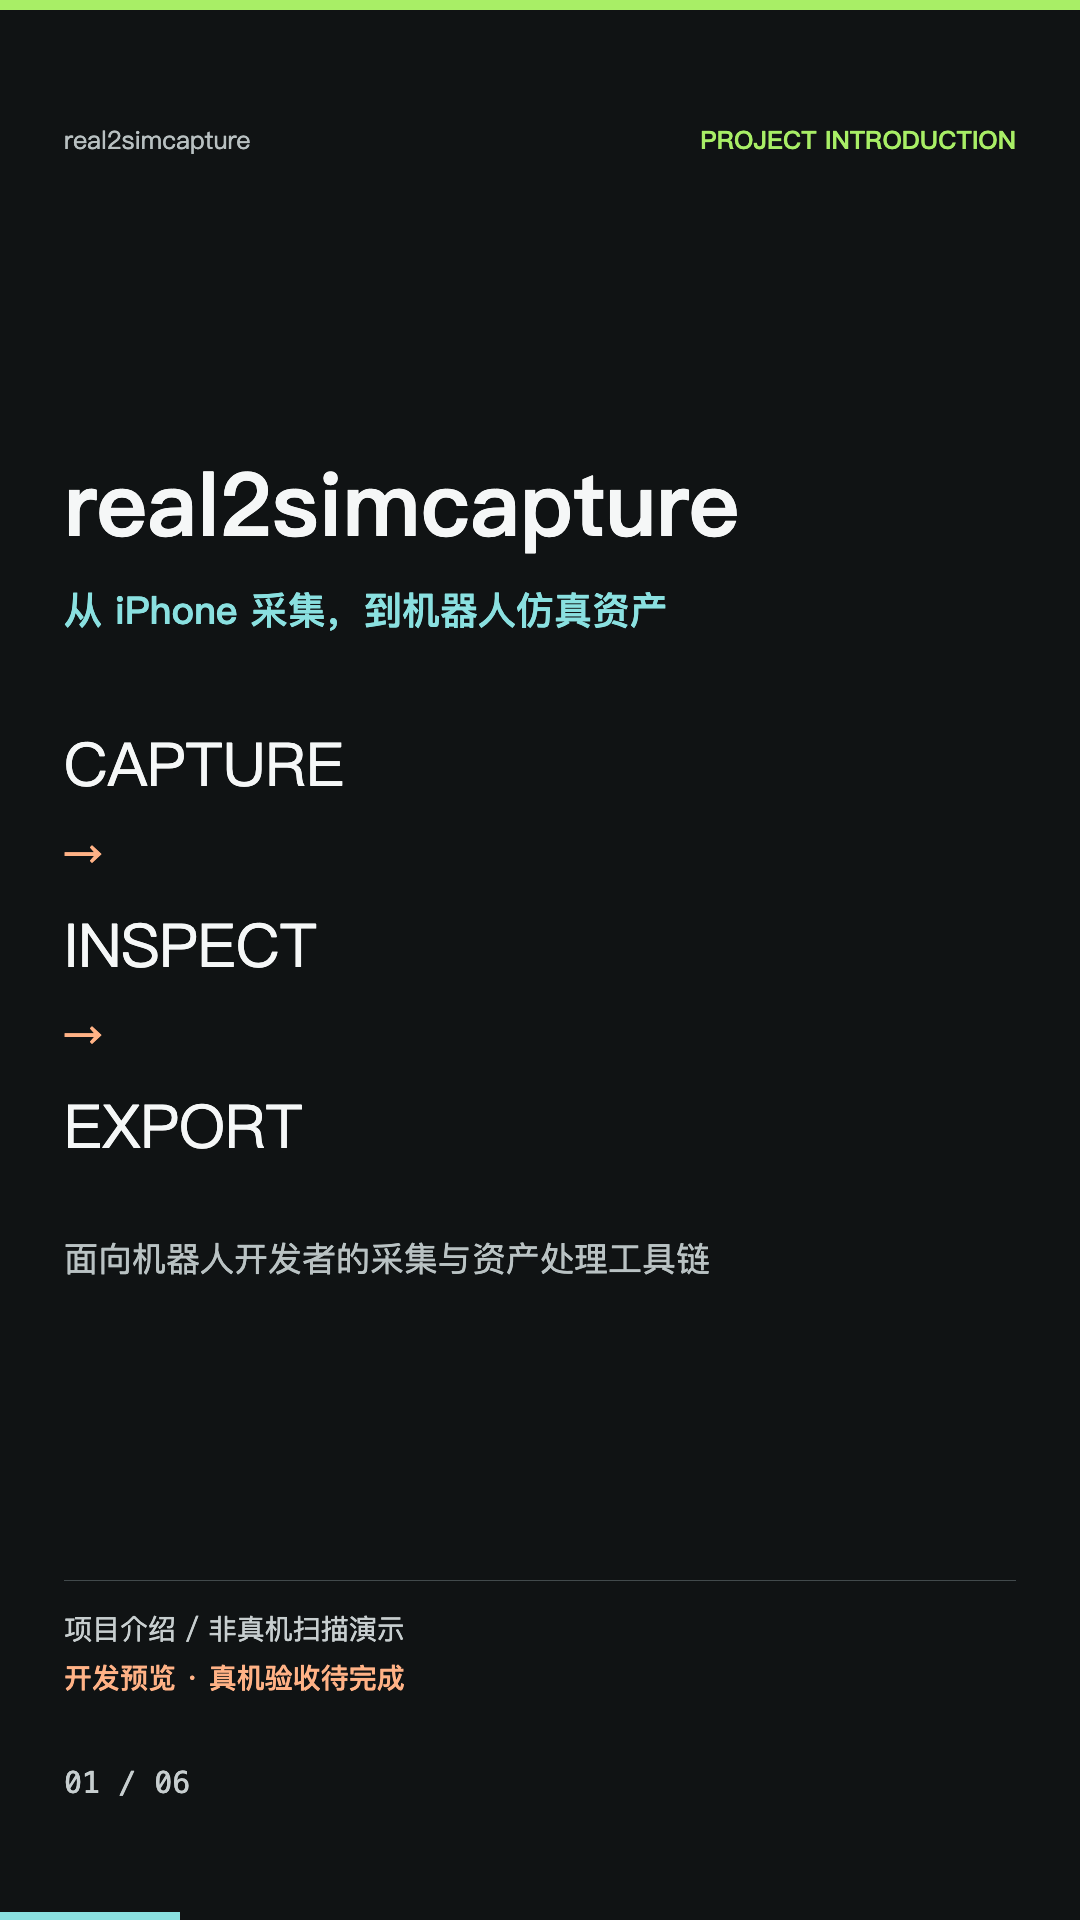
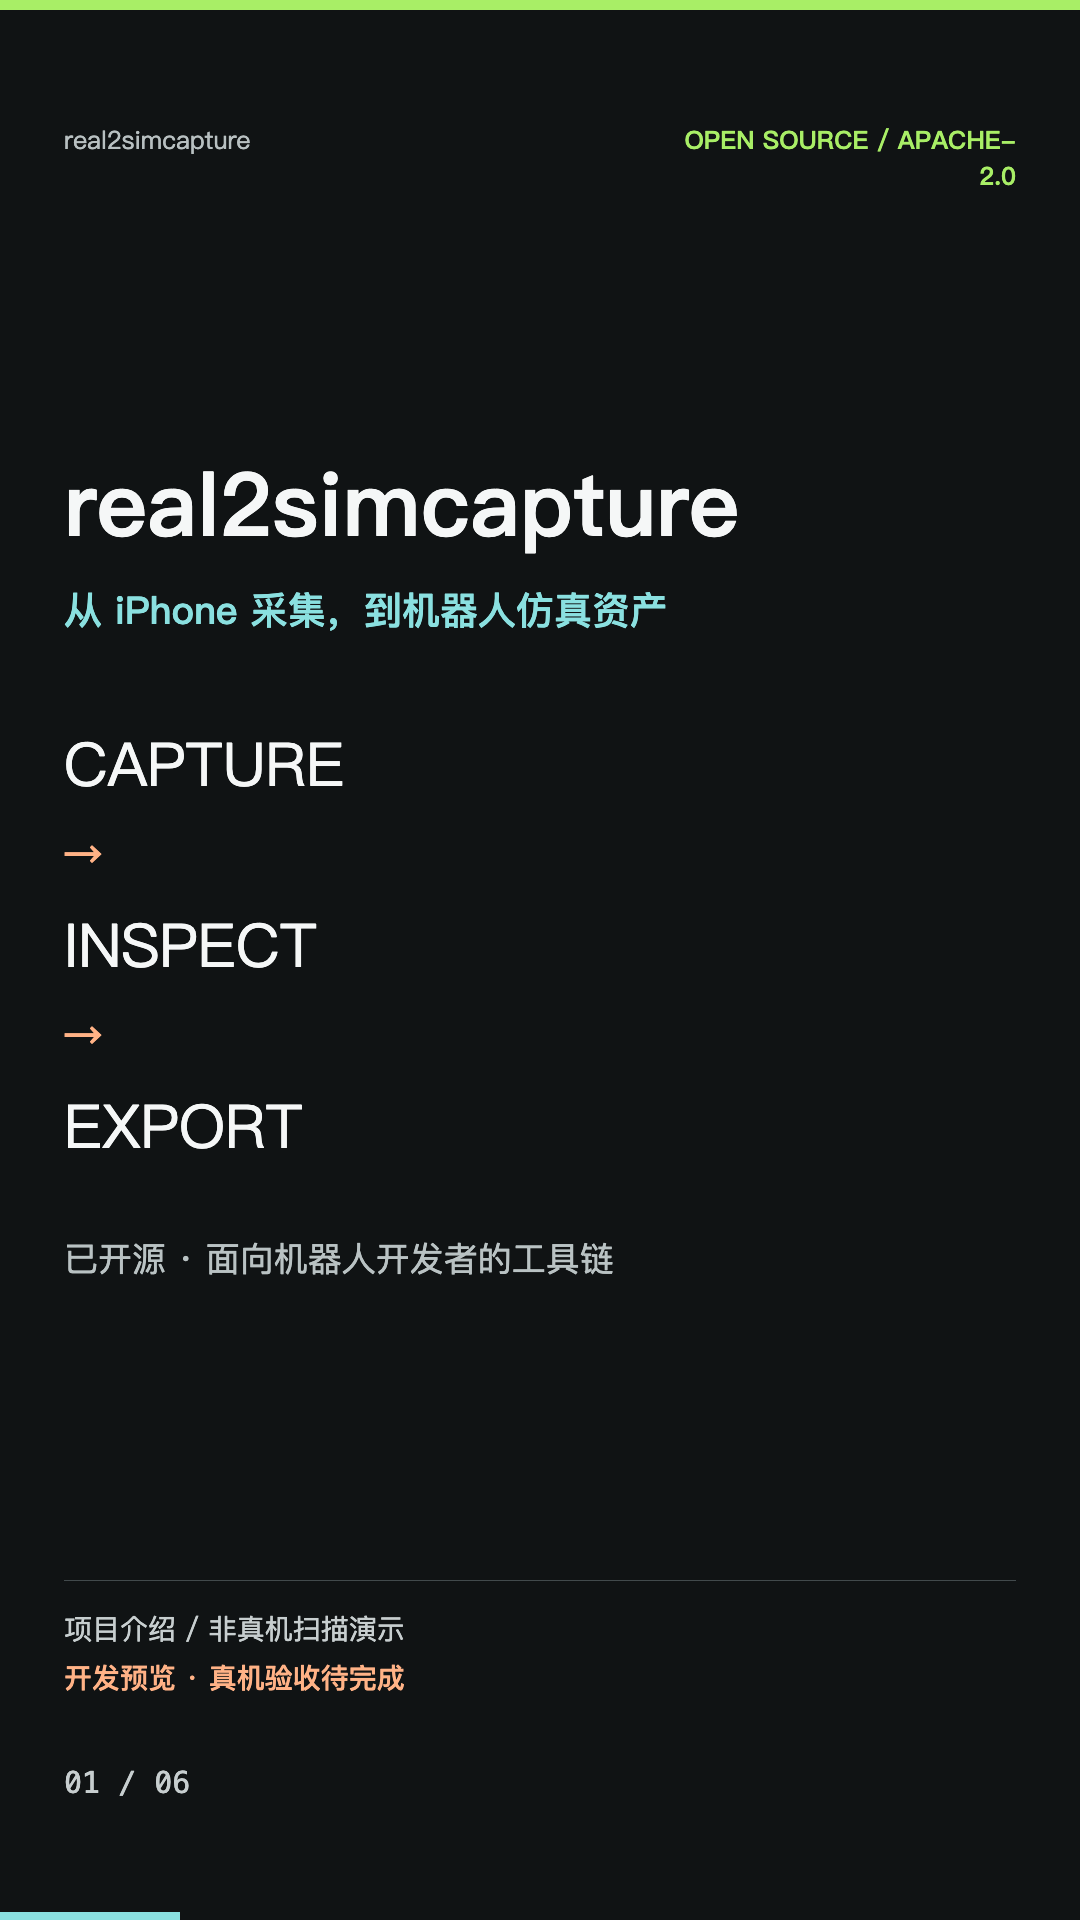
docs: publish open-source introduction videos

Changed region(s): [[0.0611, 0.625, 0.5806, 0.6875], [0.6417, 0.0625, 0.9472, 0.0938], [0.6111, 0.625, 0.6417, 0.6875]]

diff --git a/docs/launch/PUBLISHING.zh-CN.md b/docs/launch/PUBLISHING.zh-CN.md
@@ -1,91 +1,91 @@
-# 开发预览介绍片交付
+# 开源开发预览介绍片
 
-日期：2026-10-26。**视频已导出，尚未在任何视频平台上传或发布。** 源码按 Apache-2.0 开源，见 [GitHub](https://github.com/eust-w/real2simcapture) 与根目录 LICENSE。下面保留的是开源前制作的介绍片及文案，其“开源筹备”“许可证待确认”台词已过时，重新发布视频前需要更新，不应原样作为最新状态宣传。
+更新日期：2026-10-27。源码已按 [Apache-2.0](../../LICENSE) 公开，版本为 [v0.1.0-alpha.1](https://github.com/eust-w/real2simcapture/releases/tag/v0.1.0-alpha.1)。介绍片已更新开源状态和下载地址；不再使用旧版“开源筹备”“许可证待确认”的旁白。
 
-本片介绍代码和项目工作流，不是真机扫描演示。没有使用回归测试网格、生成场景或第三方扫描素材冒充采集结果。未来的真机演示分镜另见 [VIDEO.zh-CN.md](VIDEO.zh-CN.md)。
+**这是代码与工作流介绍，不是真机扫描演示。** 画面来自实际源码和真实运行的空工作台。没有用测试网格、生成场景或第三方扫描素材冒充采集结果。真机签名安装、连续扫描和目标引擎闭环仍待验收，没有可直接安装的签名 App。未来真机实录计划见 [VIDEO.zh-CN.md](VIDEO.zh-CN.md)。
 
-## 文件
+## 媒体文件
 
-本地输出位于仓库的 `.build/promo/`，不随 Git 分发：
+本轮输出保存在 `.build/promo-open-source-20261027/`，旧版 `.build/promo/` 保留但不再用于发布。
 
 | 文件 | 内容 |
 | --- | --- |
-| `real2simcapture-intro-landscape.mp4` | 1920x1080、30 fps、H.264/AAC，约 62.29 秒 |
-| `real2simcapture-intro-portrait.mp4` | 1080x1920、30 fps、H.264/AAC，约 62.29 秒 |
-| `intro.zh.srt` / `intro.en.srt` | 中文旁白字幕、英文翻译；独立字幕文件，未烧录到画面 |
-| `landscape-0.png` / `portrait-0.png` | 横竖封面 |
-| `manifest.json` | 生成时间、源码版本、素材来源、各镜头时长和媒体探测结果 |
+| `real2simcapture-intro-landscape.mp4` | 1920x1080、30 fps、H.264/AAC，约 64.82 秒；B站、YouTube |
+| `real2simcapture-intro-portrait.mp4` | 1080x1920、30 fps、H.264/AAC，约 64.82 秒；抖音、小红书 |
+| `intro.zh.srt` / `intro.en.srt` | 中文旁白与英文翻译，独立字幕，未烧录 |
+| `landscape-0.png` / `portrait-0.png` | 横竖版封面 |
+| `manifest.json` | 源码版本、生成脚本 SHA-256、旁白、镜头时长和媒体探测结果 |
 
-封面和字幕的可版本管理副本在 [assets](assets/)。没有制作虚假的“扫描结果”短循环。
+封面与字幕副本在 [assets](assets/)。配音是 macOS `say` / Tingting 合成中文旁白，不是用户的克隆声音；无背景音乐、无第三方录音。发布文案必须披露合成配音，平台有相关声明选项时同步设置。
 
-配音为 macOS `say` / Tingting 合成中文旁白，不是用户的克隆声音；无背景音乐、无第三方录音。发布时按平台要求披露合成配音。音轨峰值约 -2.7 dB、平均约 -18.6 dB；完成了音轨存在性、解码和非静音检查，没有声称进行人工逐句听审。
+公开下载：[横版视频](https://github.com/eust-w/real2simcapture/releases/download/v0.1.0-alpha.1/real2simcapture-intro-landscape.mp4) · [竖版视频](https://github.com/eust-w/real2simcapture/releases/download/v0.1.0-alpha.1/real2simcapture-intro-portrait.mp4) · [中文字幕](https://github.com/eust-w/real2simcapture/releases/download/v0.1.0-alpha.1/intro.zh.srt) · [英文字幕](https://github.com/eust-w/real2simcapture/releases/download/v0.1.0-alpha.1/intro.en.srt)。两个视频已匿名下载，并与原文件核对 SHA-256。
+
+已完成两个视频的完整解码、音轨存在性与非静音检查、横竖画面溢出检查及片头/片尾抽查。音轨峰值约 -2.7 dB、平均约 -18.5 dB。未声称人工逐句听审。
 
 ## 素材来源
 
-1. 原生采集片段：`ios/Real2SimCapture/Sources/ARSceneCaptureScreen.swift`，渲染时直接读取文件，不另编演示代码。
-2. 导出片段：`backend/app/exporters.py` 的实际 MJCF、URDF、USD 写出语句。
-3. Web：本项目实际运行的未采集工作台截图，只展示界面，不伪造采集结果；发布画面裁切不包含本地依赖路径。
-4. 标题、流程排版和旁白为本项目新制内容。源码公开权属仍需确认。
-
-两个方向均完成页面尺寸溢出检查，并抽查源码帧、界面帧、结尾和编码后视频帧。视频不包含账号密码、验证码、签名证书、真实私人房间或云主机连接信息。
+1. `ios/Real2SimCapture/Sources/ARSceneCaptureScreen.swift`：渲染时读取实际源码，展示原生采集和周期网格上传。
+2. `backend/app/exporters.py`：实际 MJCF、URDF、USD 写出代码；并非目标引擎运行画面。
+3. `.build/browser/workbench-empty.png`：2026-10-26 实际工作台截图，未开始采集，不包含私人场景。
+4. 本项目原创排版和旁白。公开视频不含账号密码、验证码、签名证书或云主机连接信息。
 
 ## 重新生成
 
-需要 macOS 系统语音、FFmpeg、项目 Node 依赖及 Chromium/Chrome。先按[安装说明](../SETUP.md)运行浏览器检查，得到实际工作台截图，再从仓库根目录执行：
+需要 macOS 系统语音、FFmpeg、项目 Node 依赖和 Chrome/Chromium，以及实际空工作台截图。不要将浏览器测试生成的网格截图用作扫描成果。
 
 ```sh
-export CHROMIUM_PATH="$(node -p 'require("./frontend/node_modules/playwright").chromium.executablePath()')"
-node scripts/render_preview_video.mjs
+PREVIEW_OUTPUT_DIR=.build/promo-open-source-20261027 node scripts/render_preview_video.mjs
 ```
 
-脚本会生成音轨、画面、两个 MP4、中英文 SRT 和 manifest。修改台词后必须重新检查时长、布局、内容准确性及是否仍符合“非真机演示”标注。
+如不使用已安装的 Chrome，可设置 `CHROMIUM_PATH`。每次修改旁白后都应重新检查时长、布局、内容准确性和“非真机演示”标注。
 
-## 各平台文案
+## 平台文案
 
-以下专门对应当前开发预览片，不可替换为“已完成真实扫描”或“已经开源”的说法。
+机器可读副本见 [platform-copy.json](platform-copy.json)。所有平台使用同一事实边界，不承诺扫描精度、延迟或生产可用性。
 
 ### B站
 
-标题：iPhone 到机器人仿真，工具链怎么搭？real2simcapture 开发预览
+标题：iPhone 到机器人仿真：real2simcapture 开源了，哪些环节还没跑通？
 
-简介：扫描外观只是开始，机器人仿真还需要尺度、碰撞几何和物理参数来源。这期用实际源码和运行中的工作台介绍 real2simcapture：原生采集、Live 网格传输、Web 检查与资产导出。当前仍是开发预览，真机签名安装、连续采集及引擎闭环待验收。项目开源筹备中，公开授权和许可证确认后再发布。这不是扫描效果演示；中文旁白由语音合成生成。
+简介：扫描外观只是开始，机器人仿真还需要尺度、碰撞几何和物理参数来源。real2simcapture 已按 Apache-2.0 开源：这期用实际源码与空工作台介绍原生采集、Live 网格传输、Web 检查和 MJCF / URDF / USD 导出。当前为开发预览，真机签名安装、连续扫描和目标引擎闭环待验收，不提供签名 App。本片不是扫描效果演示，中文旁白为合成语音。源码：https://github.com/eust-w/real2simcapture
 
-标签：机器人、计算机视觉、iPhone、ARKit、三维重建、开发记录
+标签：开源、机器人、iPhone、ARKit、三维重建、开发记录
 
 ### YouTube
 
-Title: Building an iPhone-to-Simulation Pipeline | real2simcapture Developer Preview
+Title: real2simcapture Is Open Source | iPhone-to-Simulation Developer Preview
 
-Description: A source-based introduction to real2simcapture: native capture, periodic ARKit mesh uploads, a Web workbench, and simulation asset export. This is not a physical-device scanning demo. Device signing, continuous capture and engine acceptance remain pending. Public source release awaits ownership and license confirmation. Includes synthesized Mandarin narration and an English subtitle file. Estimated physical parameters are not measurements.
+Description: An open-source capture and simulation-asset pipeline for robotics developers. This source-based introduction covers native iPhone capture, periodic ARKit mesh uploads, a Web workbench, and MJCF / URDF / USD export. Apache-2.0 source: https://github.com/eust-w/real2simcapture
 
-Tags: robotics, ARKit, iPhone, 3D reconstruction, simulation assets, developer preview
+This is a developer preview, not a physical-device scanning demo. Device signing, continuous scanning and target-engine acceptance remain pending. No signed installable iPhone app is distributed. Estimated physical parameters are not measurements. Actual code and an empty workbench are shown; no fabricated scan results. Includes synthesized Mandarin narration, with Chinese and English subtitle files.
 
-使用横版，并上传 `intro.en.srt` 与 `intro.zh.srt`。不要填尚不可公开访问的仓库地址作为可用下载链接。
+Tags: robotics, ARKit, iPhone, open source, 3D reconstruction, developer preview
+
+使用横版，语言设为中文，并上传中英文字幕。不将“合成配音”描述为用户本人录音。
 
 ### 抖音
 
-封面：iPhone 采集，怎样接到机器人仿真？
+标题：iPhone到仿真，工具链开源了
 
-文案：模型外观之外，还要处理尺度、碰撞和参数来源。real2simcapture 开发记录：原生采集、Live 网格与导出代码。真机闭环待验收，开源筹备中。本条为代码介绍，非扫描效果演示；使用合成配音。#机器人 #三维重建 #开发日常
+文案：扫描出模型，还不等于机器人能用。real2simcapture 已开源：原生采集、Live 网格、Web 检查与资产导出。当前为开发预览，真机连续扫描和引擎闭环待验收，没有签名安装包。本片是实际代码与空工作台介绍，非扫描效果演示；合成配音。源码：GitHub 搜索 eust-w/real2simcapture。#开源 #机器人 #三维重建
 
 ### 小红书
 
-标题：做机器人仿真资产，扫描之后还缺什么？
+标题：iPhone到仿真，工具链开源了
 
-正文：最近在整理 real2simcapture。目标是连接 iPhone 原生采集、工作台检查和仿真资产导出。视频里展示的是实际代码与空工作台，没有用测试几何冒充真实扫描。当前已补上 Live 网格传输；签名安装、长时间采集、真实引擎闭环还需要设备验收。准备开源，但公开授权和许可证尚未确认。使用合成配音。#机器人开发 #iPhone #三维重建 #项目记录
-
-### GitHub README
-
-首屏封面已加入中英文 README。公开后才追加真正可访问的视频或 release 链接，当前不编造发布地址。
+正文：把手机采集接到机器人仿真，中间不只是一个模型文件。real2simcapture 已按 Apache-2.0 开源，整理了原生采集、Live 网格传输、工作台检查和 MJCF / URDF / USD 导出代码。视频展示实际源码与空工作台，不拿测试网格冒充扫描成果。当前为开发预览：签名安装、连续扫描和目标引擎闭环待验收，没有签名 App。源码在 GitHub：eust-w/real2simcapture。本片使用合成配音。#开源项目 #机器人开发 #iPhone #三维重建
 
 ## 发布台账
 
-| 平台 | 目标账号 | 状态 | 公开链接 |
-| --- | --- | --- | --- |
-| GitHub | 已有私有仓库 eust-w/real2simcapture | 私有预览分支及草稿 PR；未公开 | 无公开 release |
-| B站 | 未确认 | 文件与文案已备；未上传 | 无 |
-| YouTube | 未确认 | 文件与中英文字幕已备；未上传 | 无 |
-| 抖音 | 未确认 | 竖版与文案已备；未上传 | 无 |
-| 小红书 | 未确认 | 竖版与文案已备；未上传 | 无 |
+| 平台 | 当前状态 | 链接 |
+| --- | --- | --- |
+| GitHub 源码 | 已公开，Apache-2.0 | [仓库](https://github.com/eust-w/real2simcapture) |
+| GitHub 视频 | 两个 MP4、双语字幕、两张封面已公开；MP4 匿名下载校验通过 | [Release](https://github.com/eust-w/real2simcapture/releases/tag/v0.1.0-alpha.1) |
+| B站 | 待连接已登录浏览器；未上传 | 无 |
+| YouTube | 待连接已登录浏览器；未上传 | 无 |
+| 抖音 | 待连接已登录浏览器；未上传 | 无 |
+| 小红书 | 待连接已登录浏览器；未上传 | 无 |
 
-发布前需要：权利人确认源码及画面可公开、选择许可证、确认每个平台目标账号并完成登录。任何平台的“上传中”“待审核”“草稿”都不能记录为公开发布成功。本轮没有创建自动发布任务。
+上传完成、审核中、草稿均不等于公开发布。每个平台分别核对账号、内容与公开链接，保留本地证据；不创建自动发布任务。
+
+本轮浏览器自动化连接未完成，未读取四个平台的当前账号状态，也没有提交投稿。过去其他项目的登录、审核或账号限制不作为本次平台状态的证据。

diff --git a/docs/launch/READINESS.zh-CN.md b/docs/launch/READINESS.zh-CN.md
@@ -8,7 +8,7 @@
 
 本次额外移除 Compose 固定开发密码，端口限制为本机，MinIO 默认私有，并增加三项配置回归。此前六个提交的规则扫描未发现密钥泄露；源码发布不包含被忽略的本地环境、采集数据、证书和视频文件。最终公开状态、匿名下载和测试以 GitHub 对应版本及 CI 记录为准。
 
-**真机签名安装、连续扫描和目标引擎验收仍待完成。** 以下“首次检查”“私有分支”“许可证待确认”是开源前的历史记录，不再代表当前授权状态。各视频平台尚未发布，不能把仓库公开计为视频发布完成。
+**真机签名安装、连续扫描和目标引擎验收仍待完成。** 以下“首次检查”“私有分支”“许可证待确认”是开源前的历史记录，不再代表当前授权状态。2026-10-27 更新后的横竖介绍视频已放入 GitHub Release，两个 MP4 已匿名下载校验；B站、YouTube、抖音、小红书尚未投稿，不能把 GitHub 媒体公开计为四个平台发布完成。详见[视频台账](PUBLISHING.zh-CN.md)。
 
 ## 发布判断
 

diff --git a/README.zh-CN.md b/README.zh-CN.md
@@ -10,7 +10,7 @@
 
 ![开发预览介绍片封面，非真机演示](docs/launch/assets/preview-cover.png)
 
-代码位于公开仓库的 `main` 分支，[版本下载](https://github.com/eust-w/real2simcapture/releases)。开源前制作的约 62 秒介绍片及素材说明见[视频交付说明](docs/launch/PUBLISHING.zh-CN.md)，其中关于“开源筹备”的历史台词不代表当前仓库状态。
+代码位于公开仓库的 `main` 分支，[版本下载](https://github.com/eust-w/real2simcapture/releases)。更新后的约 65 秒介绍片已公开：[横版视频](https://github.com/eust-w/real2simcapture/releases/download/v0.1.0-alpha.1/real2simcapture-intro-landscape.mp4) · [竖版视频](https://github.com/eust-w/real2simcapture/releases/download/v0.1.0-alpha.1/real2simcapture-intro-portrait.mp4) · [字幕与素材说明](docs/launch/PUBLISHING.zh-CN.md)。实际源码与空工作台画面，合成中文旁白，非真机扫描实录；社交平台发布状态单独记录。
 
 ## Live 链路
 

diff --git a/README.md b/README.md
@@ -11,7 +11,7 @@ An iPhone capture and simulation-asset pipeline for robotics developers.
 
 ![Developer-preview project introduction, not device footage](docs/launch/assets/preview-cover.png)
 
-[Introduction video package and production sources](docs/launch/PUBLISHING.zh-CN.md). The introduction uses source excerpts and an actual empty workbench, not fabricated scan results.
+[Watch/download the 65-second introduction](https://github.com/eust-w/real2simcapture/releases/download/v0.1.0-alpha.1/real2simcapture-intro-landscape.mp4) · [Portrait video](https://github.com/eust-w/real2simcapture/releases/download/v0.1.0-alpha.1/real2simcapture-intro-portrait.mp4) · [Subtitles and production notes](docs/launch/PUBLISHING.zh-CN.md). Actual source excerpts and an empty workbench, not device footage or fabricated scan results. Synthesized Mandarin narration; Chinese and English subtitle files are included in the release.
 
 ## Capabilities
 
